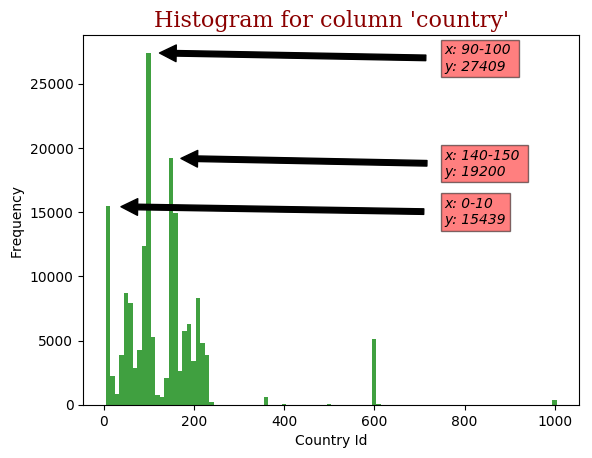
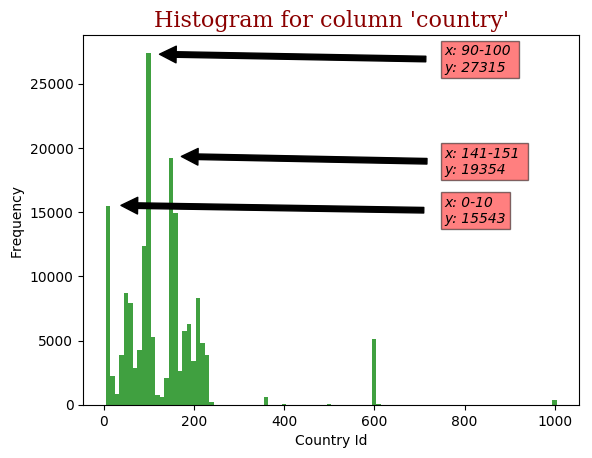
Create computer class for computations.

diff --git a/project/globalterrorismdb_parser.py b/project/globalterrorismdb_parser.py
@@ -1,25 +1,16 @@
-import copy
 import json
-import math
 import os
-from multiprocessing import Process
 
-import matplotlib.pyplot as plt
-import numpy as np
 import pandas as pd
-from scipy.stats import gaussian_kde
 
 
 class GlobalTerrorismDBParser:
     def __init__(self):
         """ Reads in the csv file and stores it as DataFrame object. """
-        self.font = {'family': 'serif',
-                     'color': 'darkred',
-                     'weight': 'normal',
-                     'size': 16,
-                     }
+        with open("country_dict.json") as f:
+            self.country_dict = json.load(f)
+
         self.data_dir = "data"
-        self.plot_dir = "plots"
         self.data_filename = "globalterrorismdb_0617dist.csv"
         self.data_path = os.path.join(self.data_dir, self.data_filename)
 
@@ -29,6 +20,17 @@ class GlobalTerrorismDBParser:
 
         if not isinstance(self.data, pd.DataFrame):
             raise ValueError("Must be instance of DataFrame, but got " + type(self.data) + ".")
+
+    def get_country_by_id(self, id):
+        """
+        Returns the country as label by a given id.
+        :param id: str, int
+        :return:
+        """
+        if not str(id) in self.country_dict:
+            return "Undefined"
+
+        return self.country_dict[str(id)]
 
     def to_json(self):
         """ Stores a json with the content of each column in the csv file. """
@@ -53,128 +55,3 @@ class GlobalTerrorismDBParser:
 
         return list(out)
 
-    def plot_histogram_for_column(self, column_name, bins, xlabel, ylabel, info_threshold,
-                                  textbox_x_positional_percentage=0.75,
-                                  textbox_drop_percentage=0.05):
-        """
-        Plots a histogram of a given column_column_name.
-        :param column_name:
-        :param bins:
-        :param xlabel:
-        :param ylabel:
-        :param info_threshold:
-        :return:
-        """
-
-        column = self.get_column(column_name)
-        bin_size = math.floor((max(column) + math.fabs(min(column))) / bins)
-        hist, bins_1 = np.histogram(column,
-                                    bins=np.arange(min(column), max(column), bin_size))
-        max_n_elements = sorted(hist, reverse=True)[:info_threshold]
-        distribution = np.where(hist >= min(max_n_elements))[0]
-        interests = [hist[i] for i in distribution]
-        distribution[:] = list(map(lambda x: math.floor(x * bin_size), distribution))
-
-        plt.gcf().clear()
-        for x, y in zip(distribution, interests):
-            plt.annotate("x: " + str(x) + "-" + str(int(x + bin_size)) + " \ny: " + str(y),
-                         xy=(x, y),
-                         xytext=(textbox_x_positional_percentage * (max(column) + math.fabs(min(column))),
-                                 y - textbox_drop_percentage * max(max_n_elements)),
-                         style='italic',
-                         arrowprops=dict(facecolor='black', shrink=0.05),
-                         bbox={'facecolor': 'red', 'alpha': 0.5, 'pad': 2.5})
-
-        n, bins_2, patches = plt.hist(column,
-                                      bins=bins,
-                                      facecolor='g',
-                                      alpha=0.75)
-
-        plt.xlabel(xlabel)
-        plt.ylabel(ylabel)
-        plt.title("Histogram for column '" + column_name + "'", fontdict=self.font)
-        plt.savefig(os.path.join(self.plot_dir, column_name + "_histogram.png"),
-                    dpi='figure',
-                    bbox_inches='tight')
-
-    def plot_geographical_heatmap(self, filename):
-        """
-        Plots the longitude and latitude of terrorism attacks to png.
-        :param filename:
-        :return:
-        """
-
-        # Pre-processing
-        if not os.path.exists(self.plot_dir):
-            os.mkdir(self.plot_dir)
-
-        lg = copy.deepcopy(self.get_column(column="longitude"))
-        lat = copy.deepcopy(self.get_column(column="latitude"))
-
-        idxs = list()
-        for val, (a, b) in enumerate(zip(lg, lat)):
-            if math.isnan(a) or math.isnan(b):
-                idxs.append(val)
-
-        incr = 0
-        for idx in idxs:
-            del lg[idx - incr]
-            del lat[idx - incr]
-            incr += 1
-
-        # Plotting
-        p1 = Process(target=self.plot_heatmap_1,
-                     args=[lg, lat, "Geographical heatmap of terrorism attacks",
-                           filename, self.plot_dir, "Longitude", "Latitude"])
-        p1.start()
-        p1.join()
-
-    def plot_heatmap_1(self, lg, lat, title, filename, plot_dir, xlabel, ylabel):
-        """
-        Plots heatmap using gaussian colors.
-        :param lg:
-        :param lat:
-        :param title:
-        :param filename:
-        :param plot_dir:
-        :param xlabel:
-        :param ylabel:
-        :return:
-        """
-        lg_lat = np.vstack([lg, lat])
-        z = gaussian_kde(lg_lat)(lg_lat)
-
-        plt.gcf().clear()
-        plt.title(title, fontdict=self.font)
-        plt.ylabel(ylabel)
-        plt.xlabel(xlabel)
-        plt.scatter(lg, lat, c=z, s=2.5, alpha=1)
-        plt.savefig(os.path.join(plot_dir, filename),
-                    dpi='figure',
-                    bbox_inches='tight')
-        plt.show()
-
-    def plot_heatmap_2(self, lg, lat, title, filename, plot_dir):
-        """
-         Plot heatmap using default matplotlib functions.
-        :param lg:
-        :param lat:
-        :param title:
-        :param filename:
-        :param plot_dir:
-        :return:
-        """
-        plt.gcf().clear()
-        plt.hist2d(x=lg,
-                   y=lat,
-                   bins=[50, 50],
-                   cmap=plt.cm.jet,
-                   alpha=1)
-        plt.colorbar()
-        plt.ylabel('latitude')
-        plt.xlabel('longitude')
-        plt.title(title)
-        plt.savefig(os.path.join(plot_dir, filename),
-                    transparent=False,
-                    dpi='figure',
-                    bbox_inches='tight')

diff --git a/project/computer.py b/project/computer.py
@@ -1,0 +1,146 @@
+import copy
+import math
+import os
+from multiprocessing import Process
+
+import matplotlib.pyplot as plt
+import numpy as np
+from scipy.stats import gaussian_kde
+from globalterrorismdb_parser import GlobalTerrorismDBParser
+
+
+class Computer:
+    def __init__(self):
+        self.gt_parser = GlobalTerrorismDBParser()
+        self.plot_dir = "plots"
+        self.font = {'family': 'serif',
+                     'color': 'darkred',
+                     'weight': 'normal',
+                     'size': 16,
+                     }
+
+    def plot_geographical_heatmap(self, filename):
+        """
+        Plots the longitude and latitude of terrorism attacks to png.
+        :param filename:
+        :return:
+        """
+
+        # Pre-processing
+        if not os.path.exists(self.plot_dir):
+            os.mkdir(self.plot_dir)
+
+        lg = copy.deepcopy(self.gt_parser.get_column(column="longitude"))
+        lat = copy.deepcopy(self.gt_parser.get_column(column="latitude"))
+
+        idxs = list()
+        for val, (a, b) in enumerate(zip(lg, lat)):
+            if math.isnan(a) or math.isnan(b):
+                idxs.append(val)
+
+        incr = 0
+        for idx in idxs:
+            del lg[idx - incr]
+            del lat[idx - incr]
+            incr += 1
+
+        # Plotting
+        p1 = Process(target=self.plot_heatmap_1,
+                     args=[lg, lat, "Geographical heatmap of terrorism attacks",
+                           filename, self.plot_dir, "Longitude", "Latitude"])
+        p1.start()
+        p1.join()
+
+    def plot_histogram_for_column(self, column_name, bins, xlabel, ylabel, info_threshold,
+                                  textbox_x_positional_percentage=0.75,
+                                  textbox_drop_percentage=0.05):
+        """
+        Plots a histogram of a given column_column_name.
+        :param column_name:
+        :param bins:
+        :param xlabel:
+        :param ylabel:
+        :param info_threshold:
+        :return:
+        """
+
+        column = self.gt_parser.get_column(column_name)
+        bin_size = (max(column) + math.fabs(min(column))) / bins
+        hist, bins_1 = np.histogram(column,
+                                    bins=np.arange(min(column), max(column), bin_size))
+        max_n_elements = sorted(hist, reverse=True)[:info_threshold]
+        distribution = np.where(hist >= min(max_n_elements))[0]
+        interests = [hist[i] for i in distribution]
+        distribution[:] = list(map(lambda x: float(x * bin_size), distribution))
+
+        plt.gcf().clear()
+        for x, y in zip(distribution, interests):
+            plt.annotate("x: " + str(x) + "-" + str(int(x + bin_size)) + " \ny: " + str(y),
+                         xy=(x, y),
+                         xytext=(textbox_x_positional_percentage * (max(column) + math.fabs(min(column))),
+                                 y - float(textbox_drop_percentage * max(max_n_elements))),
+                         style='italic',
+                         arrowprops=dict(facecolor='black', shrink=0.05),
+                         bbox={'facecolor': 'red', 'alpha': 0.5, 'pad': 2.5})
+
+        n, bins_2, patches = plt.hist(column,
+                                      bins=bins,
+                                      facecolor='g',
+                                      alpha=0.75)
+
+        plt.xlabel(xlabel)
+        plt.ylabel(ylabel)
+        plt.title("Histogram for column '" + column_name + "'", fontdict=self.font)
+        plt.savefig(os.path.join(self.plot_dir, column_name + "_histogram.png"),
+                    dpi='figure',
+                    bbox_inches='tight')
+
+    def plot_heatmap_1(self, lg, lat, title, filename, plot_dir, xlabel, ylabel):
+        """
+        Plots heatmap using gaussian colors.
+        :param lg:
+        :param lat:
+        :param title:
+        :param filename:
+        :param plot_dir:
+        :param xlabel:
+        :param ylabel:
+        :return:
+        """
+        lg_lat = np.vstack([lg, lat])
+        z = gaussian_kde(lg_lat)(lg_lat)
+
+        plt.gcf().clear()
+        plt.title(title, fontdict=self.font)
+        plt.ylabel(ylabel)
+        plt.xlabel(xlabel)
+        plt.scatter(lg, lat, c=z, s=2.5, alpha=1)
+        plt.savefig(os.path.join(plot_dir, filename),
+                    dpi='figure',
+                    bbox_inches='tight')
+        plt.show()
+
+    def plot_heatmap_2(self, lg, lat, title, filename, plot_dir):
+        """
+         Plot heatmap using default matplotlib functions.
+        :param lg:
+        :param lat:
+        :param title:
+        :param filename:
+        :param plot_dir:
+        :return:
+        """
+        plt.gcf().clear()
+        plt.hist2d(x=lg,
+                   y=lat,
+                   bins=[50, 50],
+                   cmap=plt.cm.jet,
+                   alpha=1)
+        plt.colorbar()
+        plt.ylabel('latitude')
+        plt.xlabel('longitude')
+        plt.title(title)
+        plt.savefig(os.path.join(plot_dir, filename),
+                    transparent=False,
+                    dpi='figure',
+                    bbox_inches='tight')

diff --git a/project/main.py b/project/main.py
@@ -1,16 +1,25 @@
 #!/usr/bin/env python
 
+from computer import Computer
 from globalterrorismdb_parser import GlobalTerrorismDBParser
 
 if __name__ == "__main__":
-    gt_parser = GlobalTerrorismDBParser()
+    computer = Computer()
 
     # Plot histogram for country
-    gt_parser.plot_histogram_for_column(column_name="country",
-                                        bins=100,
-                                        xlabel="Country Id",
-                                        ylabel="Frequency",
-                                        info_threshold=3)
+    computer.plot_histogram_for_column(column_name="country",
+                                       bins=100,
+                                       xlabel="Country Id",
+                                       ylabel="Frequency",
+                                       info_threshold=3)
 
     # Plot geographic map
     # gt_parser.plot_geographical_heatmap(filename="geographic_map_1.png")
+
+    index = [list(range(0, 10)),
+             list(range(140, 150)),
+             list(range(90, 100))]
+    for block in index:
+        print(block)
+        for country_id in block:
+            print("\t", computer.gt_parser.get_country_by_id(country_id))
